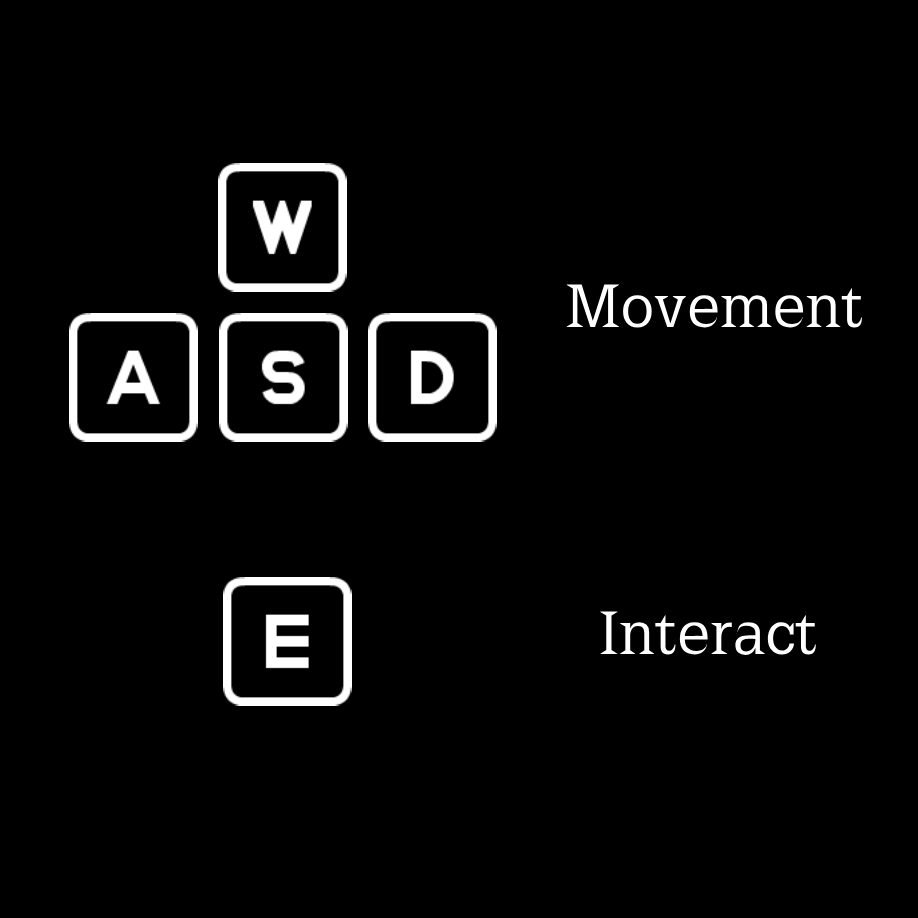
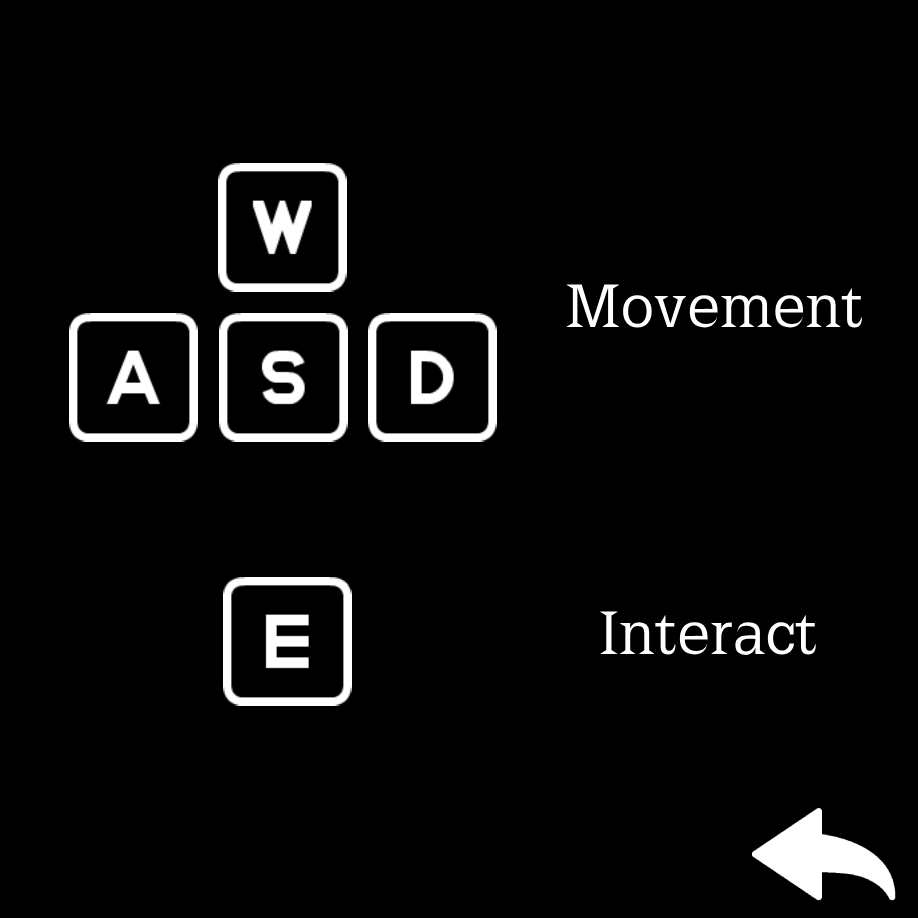
added a functioning controls menu and exit button to the start screen

Changed region(s): [[0.8235, 0.8845, 0.976, 0.976]]

diff --git a/Sketch.java b/Sketch.java
@@ -3,20 +3,33 @@ import processing.core.PImage;
 
 public class Sketch extends PApplet {
 	
-  // Determines what is drawn on the screen
-  int intArea = -1;
+  // Determines which area is drawn on the screen
+  int intDraw = -1;
 
-  // Start screen and control screen images
+  // Start screen
   PImage startScreen;
+
+  // Buttons on start screen
+  PImage playButton;
+  PImage controlsButton;
+  PImage exitButton;
+
+  // Controls screen
   PImage controlScreen;
 
   // Flashlight
 	PImage flashlight;
   
-  // Alex Idle Tileset
-  PImage alexIdleTileset;
+  // Alex's size readjustment
+  int intSizeProportion = 275;
 
-  // Alex Run Images
+  // Alex's Idle Images
+  PImage alexIdleBack;
+  PImage alexIdleForward;
+  PImage alexIdleLeft;
+  PImage alexIdleRight;
+
+  // Alex's Run Images
   PImage alexBack1;
   PImage alexBack2;
   PImage alexForward1;
@@ -26,12 +39,12 @@ public class Sketch extends PApplet {
   PImage alexRight1;
   PImage alexRight2;
 
-  // Alex coordinates
-  int intAlexX = 200;
-  int intAlexY = 200;
+  // Alex's coordinates
+  int intAlexX;
+  int intAlexY;
 
-  // Speed
-  int intAlexSpeed = 4;
+  // Alex's Speed
+  int intAlexSpeed = 6;
 
   // Boolean values for Alex's movement
   boolean wPressed = false;
@@ -39,40 +52,124 @@ public class Sketch extends PApplet {
   boolean aPressed = false;
   boolean dPressed = false;
 
-  /**
-   * Called once at the beginning of execution, put your size all in this method
-   */
+  // Set the size of the window
   public void settings() {
-	// put your size call here
     size(800, 800);
+
+    // Sets Alex's initial position
+    intAlexX = width / 2;
+    intAlexY = height / 2;
   }
 
-  /** 
-   * Called once at the beginning of execution.  Add initial set up
-   * values here i.e background, stroke, fill etc.
-   */
+  // Load and resize all images
   public void setup() {
     
-    // Load the start screen and controls
-    startScreen = loadImage("Start Screen No Buttons.png");
-    controlScreen = loadImage("Game Controls.png")
+    // Load the start screen and resize
+    startScreen = loadImage("Start Screen.png");
+    startScreen.resize(startScreen.width * width/918, startScreen.height * height/918);
+    
+    // Load the buttons on the start screen and resize
+    playButton = loadImage("Play Button.png");
+    playButton.resize(playButton.width * width/918, playButton.height * width/918);
+
+    controlsButton = loadImage("Controls Button.png");
+    controlsButton.resize(controlsButton.width * width/918, controlsButton.height * height/918);
+
+    exitButton = loadImage("Exit Button.png");
+    exitButton.resize(exitButton.width * width/918, exitButton.height * height/918);
+
+    // Load the control screen and resize
+    controlScreen = loadImage("Game Controls.png");
+    controlScreen.resize(controlScreen.width * width/918, controlScreen.height * height/918);
     
     // Load Alex's movement animations
     alexBack1 = loadImage("Alex Back 1.png");
+    alexBack1.resize(alexBack1.width * width/intSizeProportion, alexBack1.height * height/intSizeProportion);
     alexBack2 = loadImage("Alex Back 2.png");
+    alexBack2.resize(alexBack2.width * width/intSizeProportion, alexBack2.height * height/intSizeProportion);
+
     alexForward1 = loadImage("Alex Forward 1.png");
+    alexForward1.resize(alexForward1.width * width/intSizeProportion, alexForward1.height * height/intSizeProportion);
     alexForward2 = loadImage("Alex Forward 2.png");
+    alexForward2.resize(alexForward2.width * width/intSizeProportion, alexForward2.height * height/intSizeProportion);
+    
     alexLeft1 = loadImage("Alex Left 1.png");
+    alexLeft1.resize(alexLeft1.width * width/intSizeProportion, alexLeft1.height * height/intSizeProportion);
     alexLeft2 = loadImage("Alex Left 2.png");
+    alexLeft2.resize(alexLeft2.width * width/intSizeProportion, alexLeft2.height * height/intSizeProportion);
+
     alexRight1 = loadImage("Alex Right 1.png");
+    alexRight1.resize(alexRight1.width * width/intSizeProportion, alexRight1.height * height/intSizeProportion);
     alexRight2 = loadImage("Alex Right 2.png");
+    alexRight2.resize(alexRight2.width * width/intSizeProportion, alexRight2.height * height/intSizeProportion);
+
+    // Load the flashlight
+    flashlight = loadImage("Flashlight.png");
 
   }
 
   // Everything drawn to the screen
   public void draw() {
-	  background(0, 0, 0);
-    // Alex's movement
+    // Draw start screen
+    if (intDraw == -1) {
+      drawStartScreen();
+    }
+    // Draw the controls screen
+    else if (intDraw == 0) {
+      drawControlScreen();
+    }
+    // Draw room 1
+    else if (intDraw == 1) {
+      drawRoom1();
+      drawAlex();
+    }
+    // Draw room 2
+    else if (intDraw == 2) {
+      drawRoom2();
+      drawAlex();
+    }
+    // Draw room 3
+    else if (intDraw == 3) {
+      drawRoom3();
+      drawAlex();
+    }
+  }
+  
+  // Draws the start screen when intDraw = -1
+  public void drawStartScreen() {
+    
+    // Start screen background
+    image(startScreen, 0, 0);
+
+    // Buttons on the start screen
+    image(playButton, width * 100/918, height * 325/918);
+    image(controlsButton, width * 100/918, height * 440/918);
+    image(exitButton, width * 100/918, height * 555/918);
+
+  }
+  
+  // Draws the controls when intDraw = 0
+  public void drawControlScreen() {
+    image(controlScreen, 0, 0);
+  }
+
+  // Draws the first room when intDraw = 1
+  public void drawRoom1() {
+
+  }
+
+  // Draws the second room when intDraw = 2
+  public void drawRoom2() {
+
+  }
+
+  // Draws the third room when intDraw = 3
+  public void drawRoom3() {
+
+  }
+
+  // Draws Alex to the screen
+  public void drawAlex() {
     if (keyPressed) {
       
       if (wPressed) {
@@ -93,7 +190,6 @@ public class Sketch extends PApplet {
       }
     }
   }
-  
   // Alex's movement
   public void keyPressed() {
     if (key == 'w') {
@@ -126,28 +222,33 @@ public class Sketch extends PApplet {
     }
   }
 
-  // Draws the start screen when intArea = -1
-  public void drawStartScreen() {
-
-  }
-  
-  // Draws the controls when intArea = 0
-  public void drawControlScreen() {
-
-  }
-
-  // Draws the first room when intArea = 1
-  public void drawRoom1() {
-
-  }
-
-  // Draws the second room when intArea = 2
-  public void drawRoom2() {
-
-  }
-
-  // Draws the third room when intArea = 3
-  public void drawRoom3() {
-
+  // Checks when the mouse is pressed
+  public void mousePressed() {
+    
+    // Checks mouse interactivity on the start screen
+    if (intDraw == -1) {
+      
+      // Starts the game when the start button is pressed
+      if (mouseX > width * 100/918 && mouseX < width * 100/918 + playButton.width && mouseY > height * 325/918 && mouseY < height * 325/918 + playButton.height) {
+        intDraw = 1;
+      }
+      
+      // Shows the players the control screen when the controls button is pressed
+      else if (mouseX > width * 100/918 && mouseX < width * 100/918 + controlsButton.width && mouseY > height * 440/918 && mouseY < height * 440/918 + controlsButton.height) {
+        intDraw = 0;
+      }
+      // Exits the program when the exit button is pressed
+      else if (mouseX > width * 100/918 && mouseX < width * 100/918 + exitButton.width && mouseY > height * 555/918 && mouseY < height * 555/918 + exitButton.height) {
+        exit();
+      }
+    }
+    
+    // Checks if the player presses the back button on the controls screen
+    else if (intDraw == 0) {
+      
+      if (mouseX > width * 752/918 && mouseX < width * 896/918 && mouseY > height * 808/918 && mouseY < height * 901/918) {
+        intDraw = -1;
+      }
+    }
   }
 }
